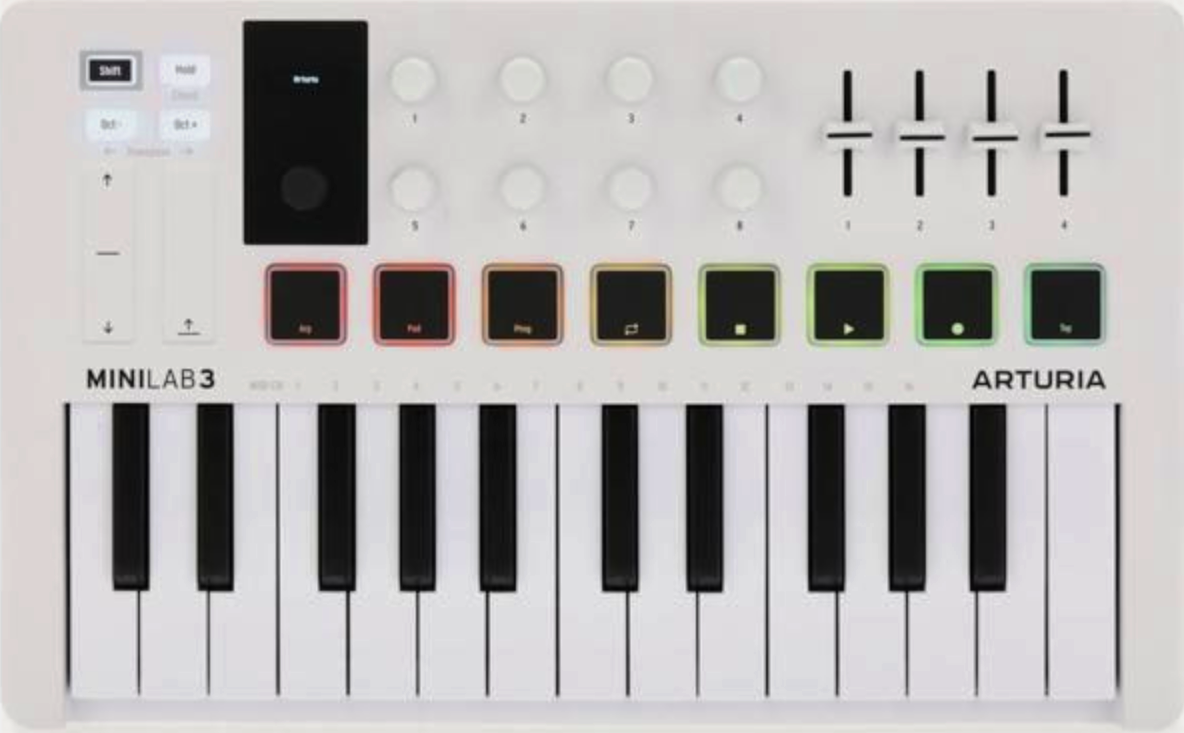
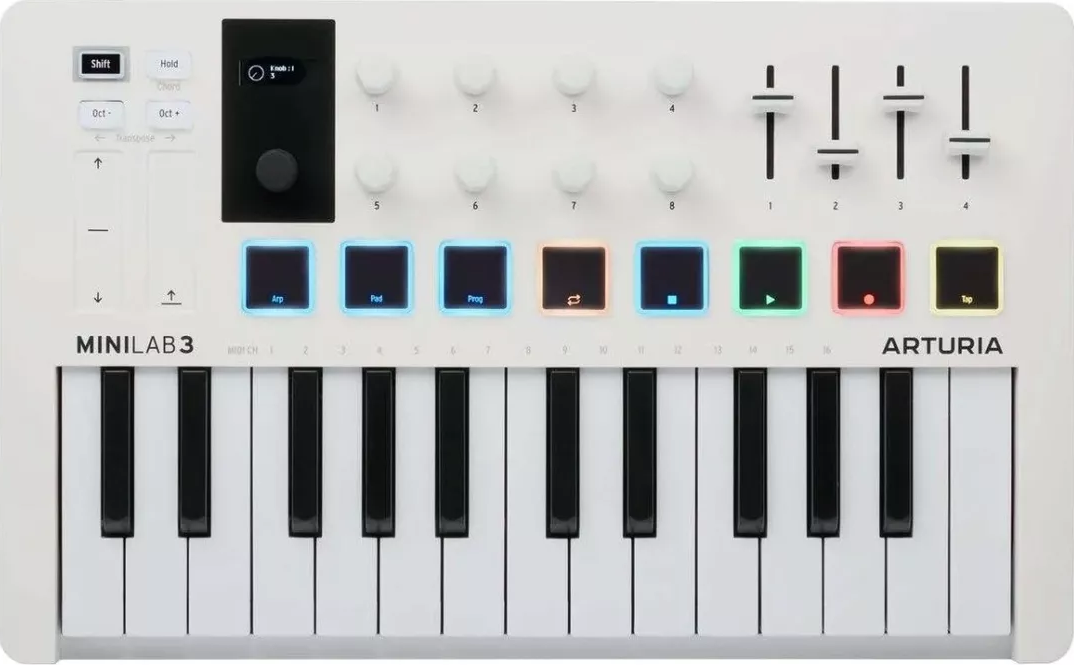
Improve shadows and spacings

diff --git a/components/Arturia.tsx b/components/Arturia.tsx
@@ -101,11 +101,11 @@ const Arturia: React.FC<ArturiaProps> = (props) => {
         </div>
         <div className="ml-[12px] flex h-full flex-1 flex-col justify-between space-y-[9px]">
           <div className="flex h-[113px] items-end">
-            <div className="flex h-full w-[63px] flex-col items-center justify-between rounded-sm bg-neutral-800">
+            <div className="flex h-full w-[63px] flex-col items-center justify-between rounded-sm bg-neutral-900">
               <div className="mt-[23px] rounded-sm bg-black px-[8px] py-[4px] font-mono text-[4px] text-white">
                 Arturia
               </div>
-              <div className="mb-[17px] h-[20px] w-[20px] cursor-pointer rounded-full bg-neutral-600 shadow-lg"></div>
+              <div className="mb-[17px] h-[24px] w-[24px] cursor-pointer rounded-full bg-neutral-700 shadow-inner"></div>
             </div>
             <div className="mb-[6px] ml-[11px] flex h-[89px] w-[189px] flex-wrap gap-x-[33px] gap-y-[18px]">
               <Knob>1</Knob>

diff --git a/app/page.tsx b/app/page.tsx
@@ -12,7 +12,7 @@ export default function Home() {
 
   return (
     <>
-      <main className="mt-20 flex min-h-screen flex-col items-center space-y-20">
+      <main className="container mt-20 flex min-h-screen flex-col items-center space-y-20">
         <div className="text-center">
           <h1 className="text-5xl font-black text-black">🎵 Synth</h1>
         </div>

diff --git a/components/Keyboard.tsx b/components/Keyboard.tsx
@@ -38,6 +38,10 @@ export const Key: React.FC<KeyProps> = ({ className, type, note }) => {
 
         type === "natural" && "z-20 h-[150px] w-[33px] bg-[#F4F1F4] text-black",
 
+        ["C#", "F#"].includes(note) && "left-[-16px]",
+
+        ["D#", "A#"].includes(note) && "left-[-6px]",
+
         className,
       )}
       onMouseLeave={() => setActive(false)}

diff --git a/app/globals.css b/app/globals.css
@@ -12,7 +12,7 @@
 }
 
 .keyboard::after {
-  box-shadow: inset 0px 12px 8px 4px rgb(0 0 0 / 0.1);
+  box-shadow: inset 0px 1px 26px 4px rgba(0, 0, 0, .1);
 }
 
 .key.active {
